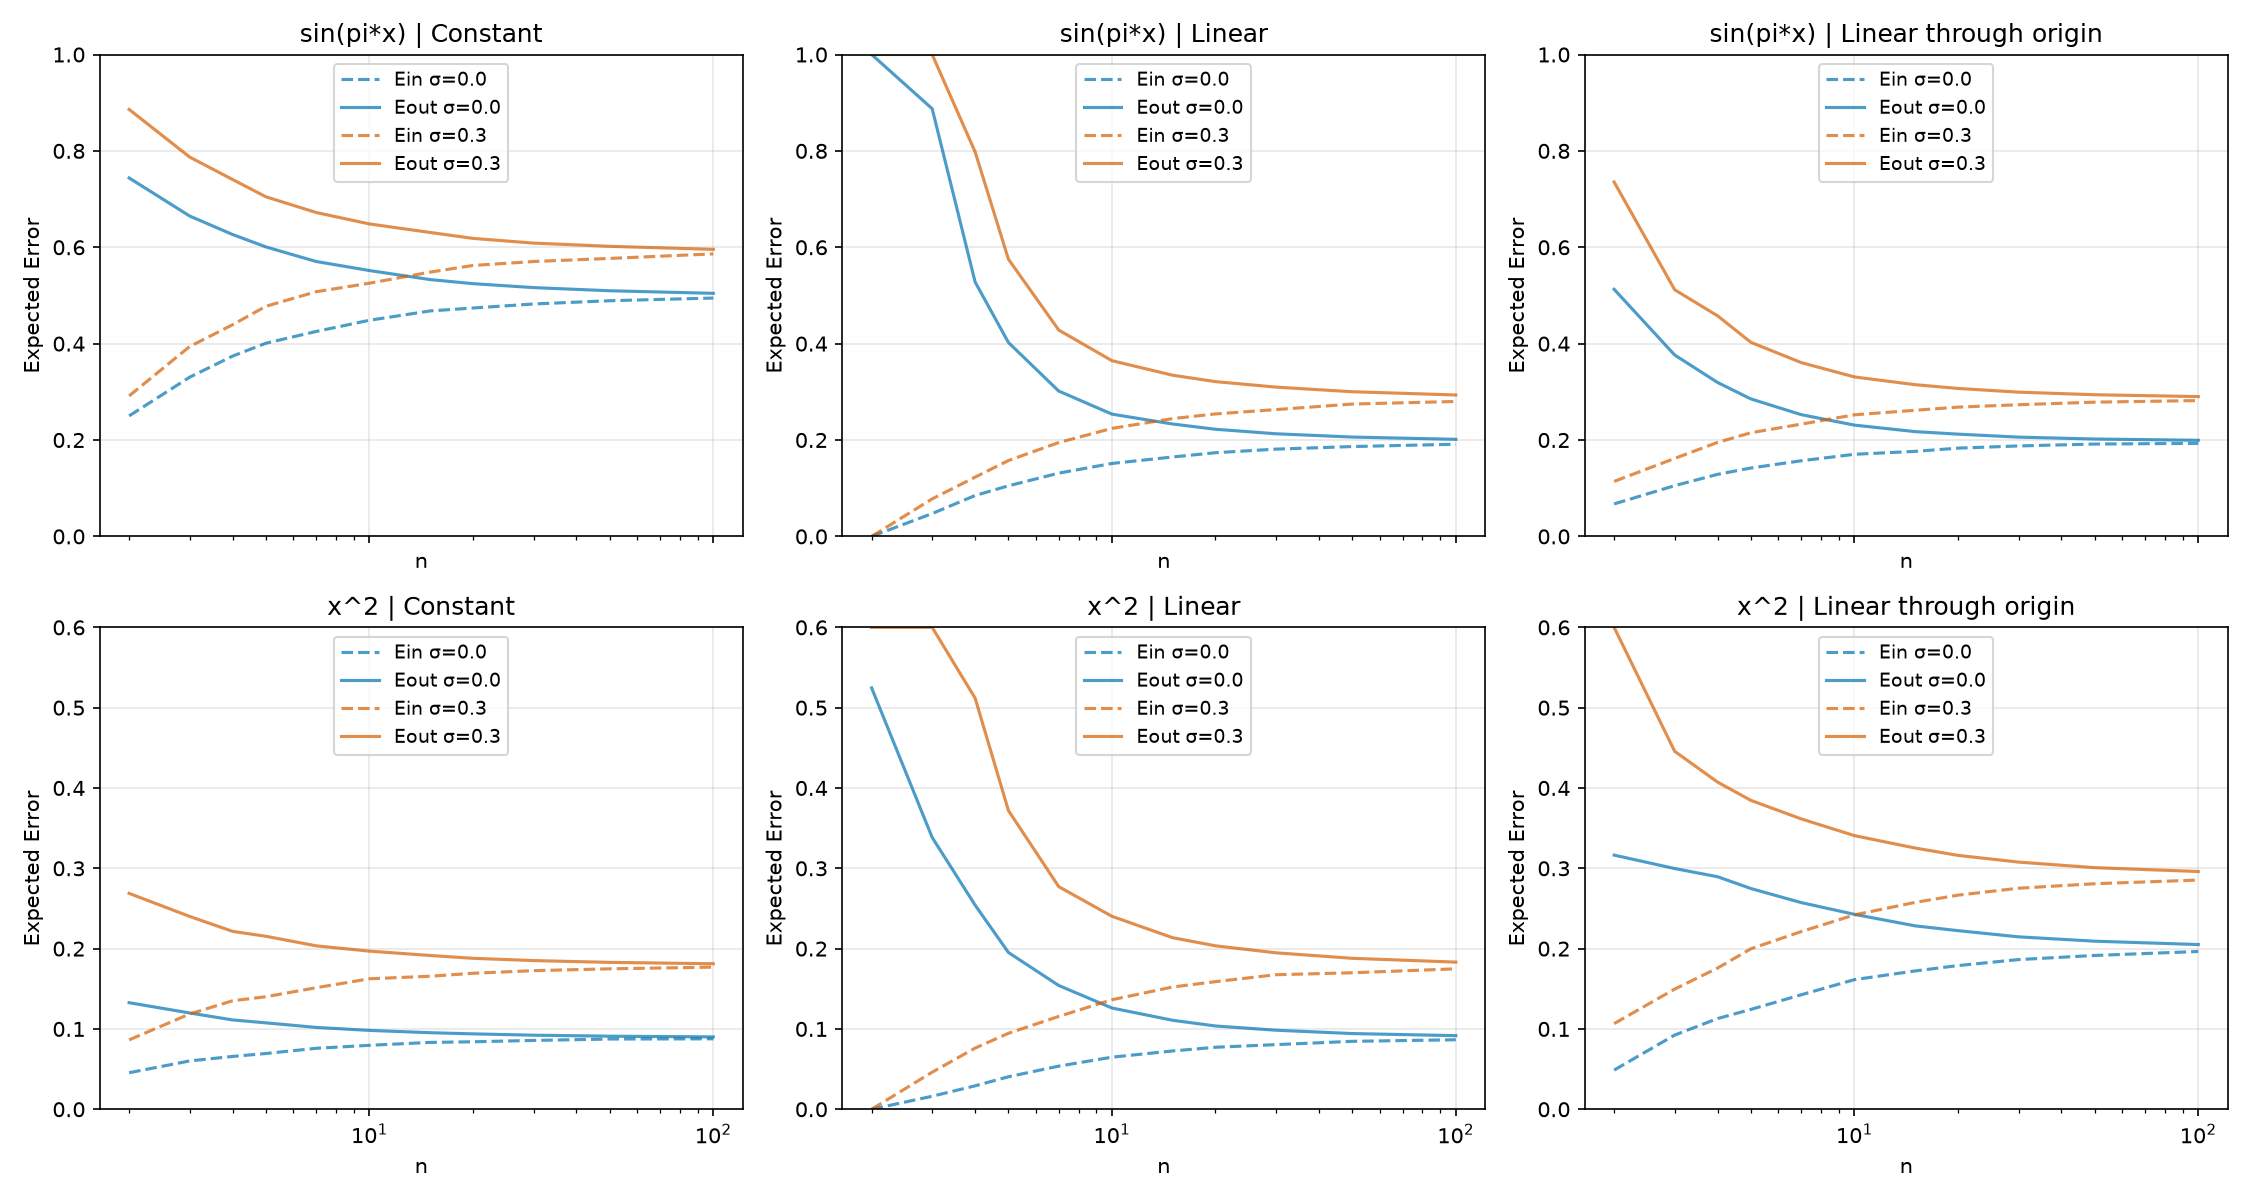
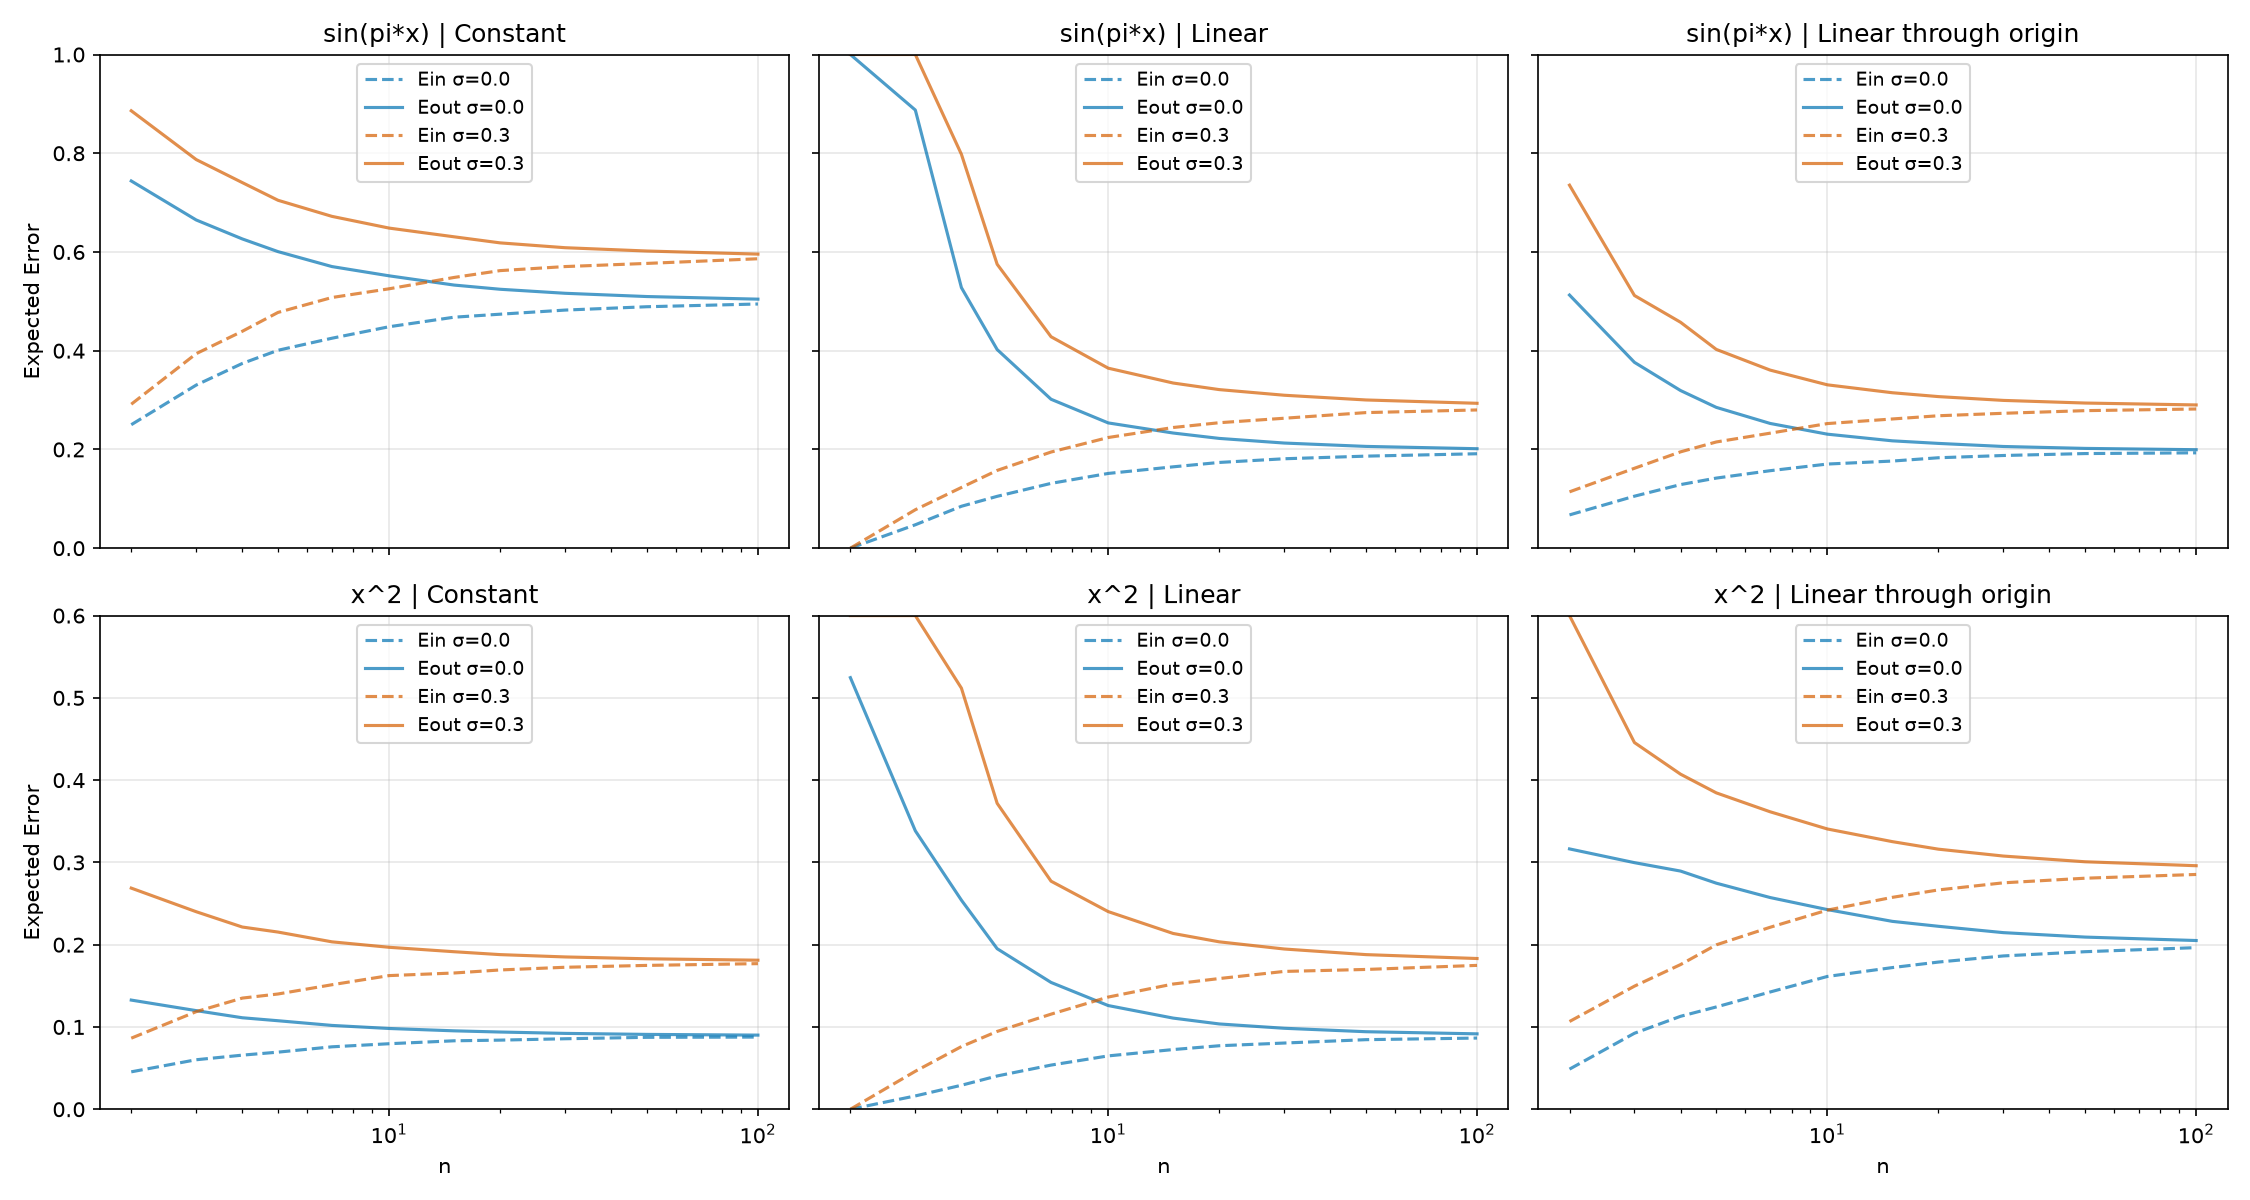
แก้อธิบายแกน learning_curve

diff --git a/Assignment/Week3/bias_variance_lab_compact.py b/Assignment/Week3/bias_variance_lab_compact.py
@@ -99,12 +99,16 @@ for row, (target_name, f) in enumerate(TARGETS.items()):
             Ein, Eout = learning_curve(f, model, N_LIST, sigma=sigma)
             ax.plot(N_LIST, np.clip(Ein, 0, ymax), '--', color=COLORS[sigma], label=f'Ein σ={sigma}', alpha=0.7)
             ax.plot(N_LIST, np.clip(Eout, 0, ymax), '-', color=COLORS[sigma], label=f'Eout σ={sigma}', alpha=0.7)
-        ax.set_xlabel('n')
-        ax.set_ylabel('Expected Error')
+        if row == 1:
+            ax.set_xlabel('n')
+        if col == 0:
+            ax.set_ylabel('Expected Error')
+            ax.tick_params(labelleft=True)
+        else:
+            ax.tick_params(labelleft=False)
         ax.set_title(f'{target_name} | {model}')
         ax.set_xscale('log')
         ax.set_ylim(0, ymax)
-        ax.tick_params(labelleft=True)
         ax.legend(fontsize=9, loc='upper center')
         ax.grid(True, alpha=0.3)
 plt.tight_layout()